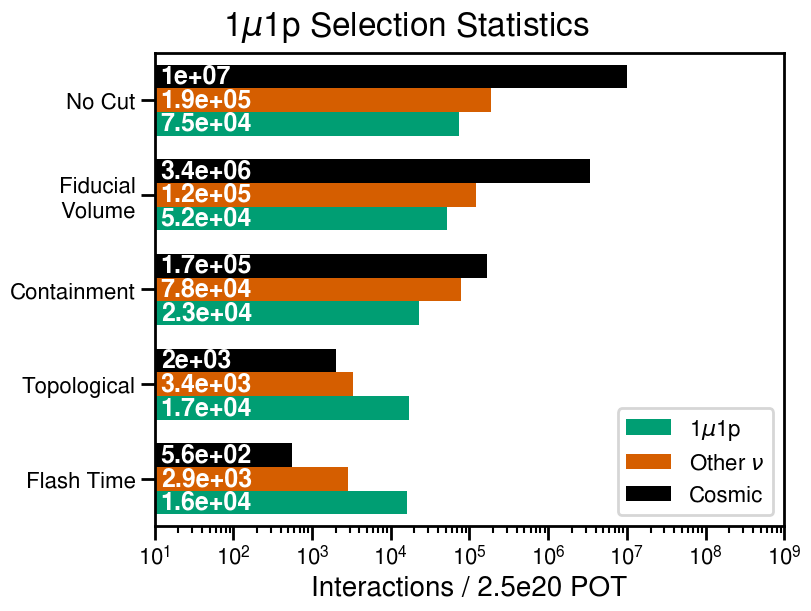
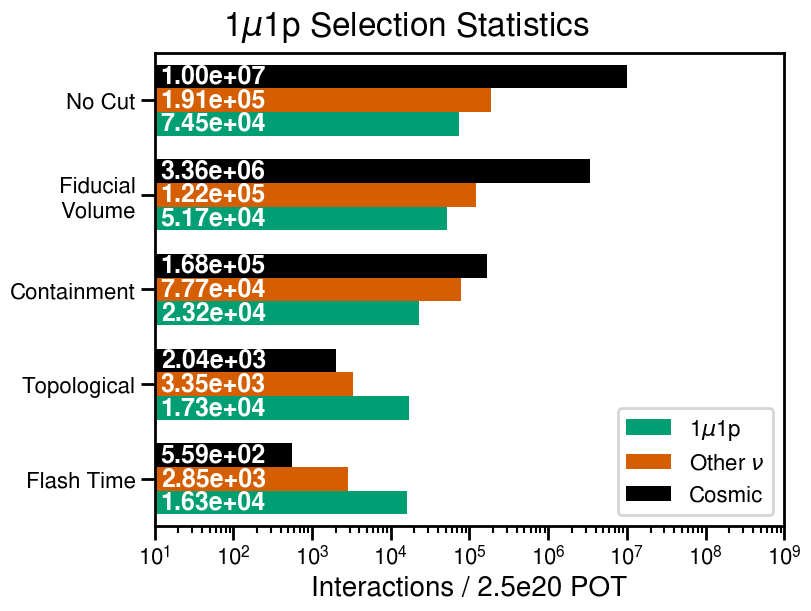
Changed interaction count to fixed decimal padding

diff --git a/plotting/plot_funcs.py b/plotting/plot_funcs.py
@@ -68,7 +68,7 @@ def plot_flow(rf, desc):
     for pi, pop in enumerate(desc.pops):
         ax.barh(ylocs + (pi + npops * -0.5)*bar_size, counts[:,pop], align='edge', height=bar_size, label=desc.labels[pi])
         for ci, c in enumerate(counts[:,pop]):
-            plt.text(1.2*10**desc.span[0], ci - (1.0-pi)*bar_size, f'{c:.2}', color='white', va="center", fontsize=18, weight='bold')
+            plt.text(1.2*10**desc.span[0], ci - (1.0-pi)*bar_size, f'{c:.02e}', color='white', va="center", fontsize=18, weight='bold')
 
     ax.set(yticks=ylocs, yticklabels=desc.clabels[::-1], ylim=[0 - bar_size, len(desc.cuts)])
     ax.set_xscale('log')
